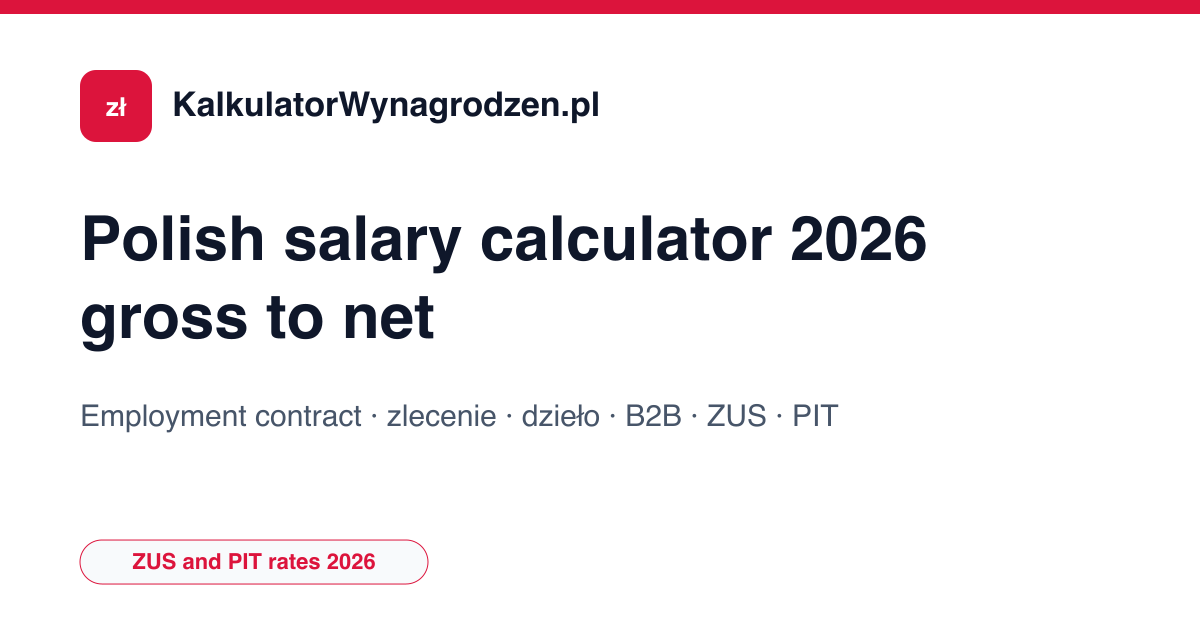
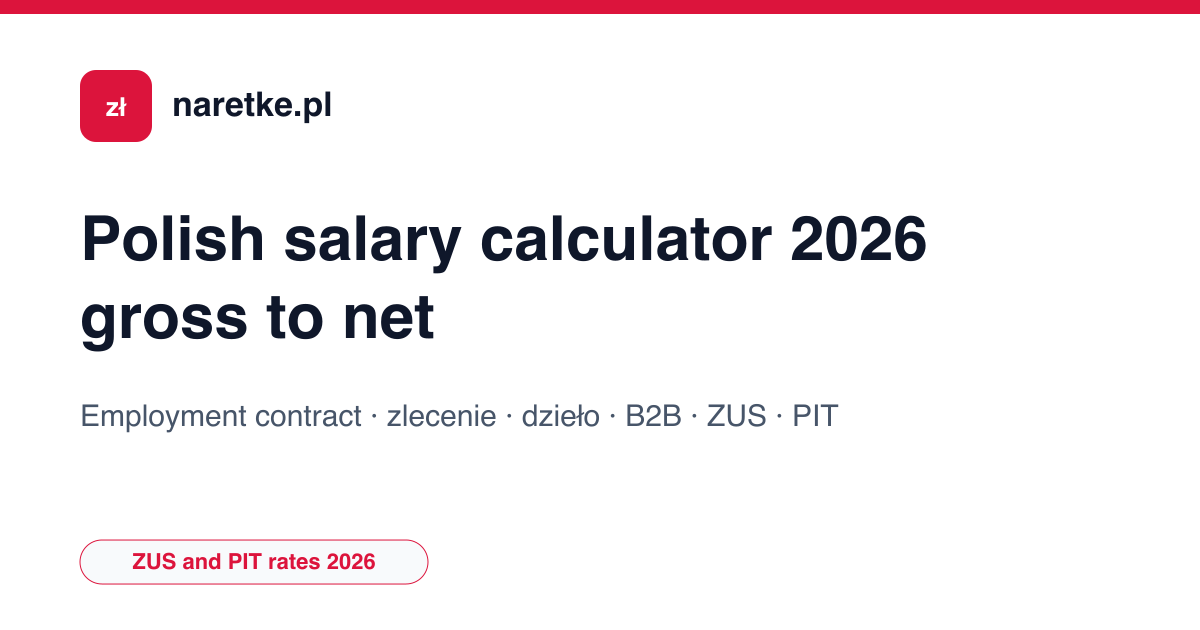
Domaine acheté par l'éditeur : naretke.pl, marque NaRękę.pl

Changed region(s): [[0.1233, 0.1206, 0.5242, 0.2111]]

diff --git a/src/data/site-config.ts b/src/data/site-config.ts
@@ -1,6 +1,6 @@
 /** Configuration centrale du site (générée par new-site.py). */
-export const SITE_URL = "https://kalkulatorwynagrodzen.pl";
-export const SITE_NAMES: Record<string, string> = {"pl": "KalkulatorWynagrodzen.pl", "en": "KalkulatorWynagrodzen.pl"};
+export const SITE_URL = "https://naretke.pl";
+export const SITE_NAMES: Record<string, string> = {"pl": "naretke.pl", "en": "naretke.pl"};
 export const LANG_TAGS: Record<string, string> = {"pl": "pl-PL", "en": "en-PL"};
 export const OG_LOCALES: Record<string, string> = {"pl": "pl_PL", "en": "en_GB"};
 export const LOCALE_TAG = 'pl-PL';
@@ -18,7 +18,7 @@ export const AUTHOR_DESC: Record<string, string> = {"pl": "Radif Partners publik
  *  themes reellement traites par le site, pas une liste de mots-cles : un sujet
  *  declare ici sans page qui le couvre est une declaration fausse. */
 export const KNOWS_ABOUT: Record<string, string[]> = {"pl": ["Wynagrodzenie brutto netto", "Składki ZUS", "Składka zdrowotna", "Podatek PIT", "Umowa zlecenie", "Umowa o dzieło", "B2B ryczałt, liniowy, skala", "PPK"], "en": ["Polish gross to net salary", "ZUS social contributions", "Health contribution", "Polish PIT", "Mandate contract (umowa zlecenie)", "Contract for specific work (umowa o dzieło)", "B2B taxation in Poland", "PPK pension plan"]};
-export const CONTACT_EMAIL = "kontakt@kalkulatorwynagrodzen.pl";
+export const CONTACT_EMAIL = "kontakt@naretke.pl";
 export const THEME_COLOR = '#DC143C';
 export const LOGO_SYMBOL = 'zł';
 export const BING_VERIFY_CODE = '';
